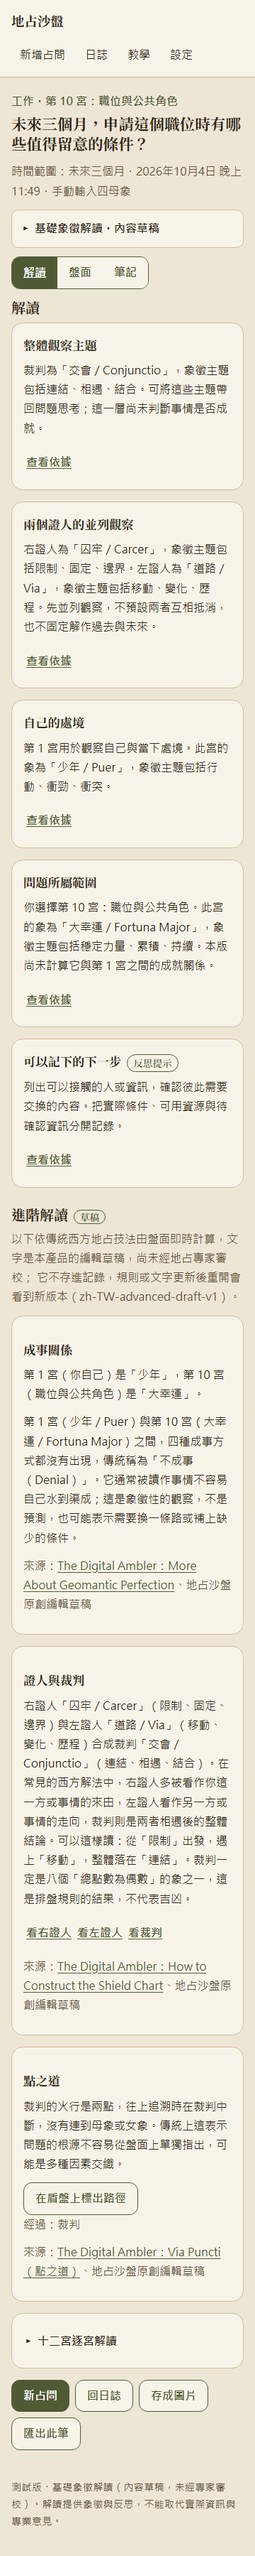
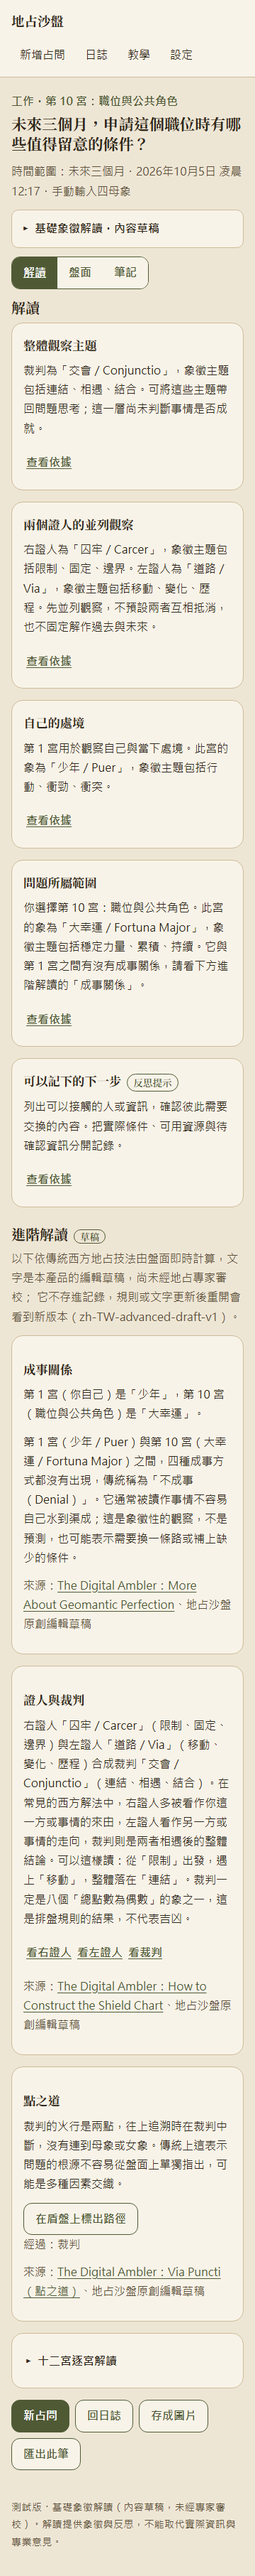
內容版本 v2：問題所屬範圍改為指向進階解讀的成事關係，舊記錄保留 v1 文字（D29）；版本 0.7.1

diff --git a/src/domain/readingV2.ts b/src/domain/readingV2.ts
@@ -1,0 +1,45 @@
+/**
+ * Content version zh-TW-basic-draft-v2, FROZEN once released (ACCEPTANCE R05; DECISIONS D29).
+ * Same tables and wording as v1, except the topic card: v1 said perfection was not yet computed,
+ * which became untrue in 0.4.0 when the advanced reading started computing it.
+ */
+import { constructChart, houseNode, toDots, RULE_VERSION, type Mothers, type NodeId } from './geomancy.ts';
+import type { Claim, Evidence, Question, Reading } from './reading.ts';
+import { FIGURES_V1, HOUSES_V1, PROMPTS_V1 } from './readingV1.ts';
+
+export const CONTENT_V2 = 'zh-TW-basic-draft-v2' as const;
+
+/** Expects a question that already passed assertQuestion. */
+export function buildReadingV2(mothers: Mothers, question: Question): Reading {
+  const chart = constructChart(mothers);
+  const info = (node: NodeId) => FIGURES_V1[toDots(chart[node])];
+  const evidence = (nodeId: NodeId, house?: number): Evidence => ({
+    nodeId, figureId: info(nodeId).id, dots: toDots(chart[nodeId]),
+    ...(house === undefined ? {} : { house }),
+  });
+  const theme = (node: NodeId, label: string) => {
+    const f = info(node);
+    return `${label}為「${f.zh}／${f.latin}」，象徵主題包括${f.keywords.join('、')}。`;
+  };
+  const claims: Claim[] = [
+    { claimId: 'overall', ruleId: 'basic.judge-theme.v1', kind: 'symbolic-theme', title: '整體觀察主題',
+      text: theme('J', '裁判') + '可將這些主題帶回問題思考；這一層尚未判斷事情是否成就。',
+      evidence: [evidence('J')], sourceIds: ['G01', 'G04', 'E01'] },
+    { claimId: 'witnesses', ruleId: 'basic.witness-pair.v1', kind: 'symbolic-theme', title: '兩個證人的並列觀察',
+      text: theme('RW', '右證人') + theme('LW', '左證人') + '先並列觀察，不預設兩者互相抵消，也不固定解作過去與未來。',
+      evidence: [evidence('RW'), evidence('LW')], sourceIds: ['G01', 'E01'] },
+    { claimId: 'querent', ruleId: 'basic.house-context.v1', kind: 'symbolic-theme', title: '自己的處境',
+      text: `第 1 宮用於觀察${HOUSES_V1[0]}。` + theme('M1', '此宮的象'),
+      evidence: [evidence('M1', 1)], sourceIds: ['G02', 'G04', 'E01'] },
+  ];
+  if (question.targetHouse !== null) {
+    const h = question.targetHouse, node = houseNode(h);
+    claims.push({ claimId: 'topic', ruleId: 'basic.house-context.v1', kind: 'symbolic-theme', title: '問題所屬範圍',
+      text: `你選擇第 ${h} 宮：${HOUSES_V1[h - 1]}。` + theme(node, '此宮的象') + '它與第 1 宮之間有沒有成事關係，請看下方進階解讀的「成事關係」。',
+      evidence: [evidence(node, h)], sourceIds: ['G02', 'G04', 'E01'] });
+  }
+  claims.push({ claimId: 'reflection', ruleId: 'editorial.reflection.v1', kind: 'reflection', title: '可以記下的下一步',
+    text: info('J').reflection + PROMPTS_V1[question.topic], evidence: [evidence('J')], sourceIds: ['E01'] });
+  return { ruleVersion: RULE_VERSION, contentVersion: CONTENT_V2, scope: 'basic-symbolic',
+    reviewStatus: 'editorial-draft', claims };
+}

diff --git a/tests/unit/contentVersions.test.ts b/tests/unit/contentVersions.test.ts
@@ -1,8 +1,10 @@
 import { describe, expect, test } from 'vitest';
 import { readFileSync } from 'node:fs';
-import { FIGURES, HOUSES } from '../../src/domain/catalog.ts';
+import { CONTENT_VERSION, FIGURES, HOUSES } from '../../src/domain/catalog.ts';
 import { buildReading, isKnownContentVersion } from '../../src/domain/reading.ts';
 import { buildReadingV1, CONTENT_V1 } from '../../src/domain/readingV1.ts';
+import { CONTENT_V2 } from '../../src/domain/readingV2.ts';
+import { MemoryRepository } from '../../src/infrastructure/repository.ts';
 import { sourceToMothers } from '../../src/domain/geomancy.ts';
 import { checkRecord } from '../../src/infrastructure/importExport.ts';
 import type { ReadingRecord } from '../../src/domain/contracts.ts';
@@ -42,8 +44,37 @@ describe('R05: content versions', () => {
     expect(checkRecord(r)).toMatchObject({ ok: false, code: 'INTEGRITY_MISMATCH' });
   });
 
+  test('v2 differs from v1 only in the topic card, which no longer says perfection is not computed', () => {
+    const r = stored();
+    const v1 = buildReading(sourceToMothers(r.source), r.question, CONTENT_V1);
+    const v2 = buildReading(sourceToMothers(r.source), r.question, CONTENT_V2);
+    expect(v2.contentVersion).toBe(CONTENT_V2);
+    const topic = (x: typeof v1) => x.claims.find(c => c.claimId === 'topic')!.text;
+    expect(topic(v1)).toContain('本版尚未計算');
+    expect(topic(v2)).not.toContain('本版尚未計算');
+    expect(topic(v2)).toContain('請看下方進階解讀的「成事關係」');
+    const others = (x: typeof v1) => x.claims.filter(c => c.claimId !== 'topic');
+    expect(others(v2)).toEqual(others(v1));
+  });
+
+  test('new records use v2; old v1 and new v2 records both validate and neither can pass as the other', async () => {
+    expect(CONTENT_VERSION).toBe(CONTENT_V2);
+    const repo = new MemoryRepository();
+    let draft = await repo.createDraft(stored().question, 'manual');
+    draft = await repo.prepareSource(draft.id, draft.revision, { kind: 'manual', mothers: sourceToMothers(stored().source) });
+    const fresh = await repo.finalizeDraft(draft.id);
+    expect(fresh.contentVersion).toBe(CONTENT_V2);
+    expect(checkRecord(fresh)).toMatchObject({ ok: true });
+    expect(checkRecord(stored())).toMatchObject({ ok: true });
+
+    const relabelled = (r: ReadingRecord, v: string) => ({ ...r, contentVersion: v, reading: { ...r.reading, contentVersion: v } });
+    expect(checkRecord(relabelled(fresh, CONTENT_V1))).toMatchObject({ ok: false, code: 'INTEGRITY_MISMATCH' });
+    expect(checkRecord(relabelled(stored(), CONTENT_V2))).toMatchObject({ ok: false, code: 'INTEGRITY_MISMATCH' });
+  });
+
   test('only registered versions are known', () => {
     expect(isKnownContentVersion(CONTENT_V1)).toBe(true);
+    expect(isKnownContentVersion(CONTENT_V2)).toBe(true);
     expect(isKnownContentVersion('zh-TW-expert-v9')).toBe(false);
     expect(isKnownContentVersion('__proto__')).toBe(false);
     expect(isKnownContentVersion('toString')).toBe(false);

diff --git a/src/domain/readingV1.ts b/src/domain/readingV1.ts
@@ -1,14 +1,15 @@
 /**
  * Content version zh-TW-basic-draft-v1, FROZEN (ACCEPTANCE R05).
  * Saved records and backups carry this exact text; validation rebuilds it and compares word for word.
- * Never edit this file. Changed wording goes into a new version (see docs/ENGINE-AND-DATA.md §10).
+ * Never edit its text. Changed wording goes into a new version (see docs/ENGINE-AND-DATA.md §10);
+ * later versions may import these tables when they keep the same wording.
  */
 import { constructChart, houseNode, toDots, RULE_VERSION, type Mothers, type NodeId } from './geomancy.ts';
 import type { Claim, Evidence, Question, Reading } from './reading.ts';
 
 export const CONTENT_V1 = 'zh-TW-basic-draft-v1' as const;
 
-const FIGURES_V1: Record<string, { id: string; zh: string; latin: string; keywords: readonly string[]; reflection: string }> = {
+export const FIGURES_V1: Record<string, { id: string; zh: string; latin: string; keywords: readonly string[]; reflection: string }> = {
   '1111': { id: 'via', zh: '道路', latin: 'Via', keywords: ['移動', '變化', '歷程'], reflection: '有哪些條件正在改變？先選一個可以調整的小步驟。' },
   '2222': { id: 'populus', zh: '群眾', latin: 'Populus', keywords: ['群體', '承接', '環境影響'], reflection: '分辨自己的想法與他人的期待，再決定要回應什麼。' },
   '2211': { id: 'fortuna-major', zh: '大幸運', latin: 'Fortuna Major', keywords: ['穩定力量', '累積', '持續'], reflection: '盤點已經累積的能力，選擇能持續投入的一項。' },
@@ -26,12 +27,12 @@ const FIGURES_V1: Record<string, { id: string; zh: string; latin: string; keywor
   '2111': { id: 'caput-draconis', zh: '龍首', latin: 'Caput Draconis', keywords: ['進入', '開始', '新階段'], reflection: '若準備開始，先確認最小可行的第一步與必要條件。' },
   '1112': { id: 'cauda-draconis', zh: '龍尾', latin: 'Cauda Draconis', keywords: ['離開', '結束', '清除'], reflection: '整理需要收尾的事項，留意結束過程中的責任。' },
 };
-const HOUSES_V1 = [
+export const HOUSES_V1 = [
   '自己與當下處境', '資源與財物', '近距離往來與訊息', '家庭與根基',
   '戀愛與創作', '日常工作與照料', '伴侶、合作與對手', '共享資源與失落',
   '遠行與學習', '職位與公共角色', '朋友與支持', '隱藏的限制',
 ] as const;
-const PROMPTS_V1: Record<Question['topic'], string> = {
+export const PROMPTS_V1: Record<Question['topic'], string> = {
   general: '寫下一個你能主動觀察或採取的小步驟。',
   work: '把實際條件、可用資源與待確認資訊分開記錄。',
   relationship: '分清自己的需求與對他人的猜測，考慮一個可以尊重彼此的溝通方式。',

diff --git a/tests/e2e/content.spec.ts b/tests/e2e/content.spec.ts
@@ -1,0 +1,30 @@
+// R05 (DECISIONS D27/D29): a record keeps the reading text of the content version it was saved with.
+import { expect, test } from '@playwright/test';
+import { fileURLToPath } from 'node:url';
+import { fillManual, startCast } from './helpers.ts';
+
+const V1_BACKUP = fileURLToPath(new URL('../../fixtures/teaching-backup.json', import.meta.url));
+
+test('R05：匯入的 v1 舊記錄照原樣顯示舊文字；新起的一盤用 v2 文字', async ({ page }) => {
+  await page.goto('./#/settings');
+  await page.getByLabel('選擇備份檔').setInputFiles(V1_BACKUP);
+  const preview = page.getByRole('region', { name: '匯入預覽' });
+  await expect(preview).toContainText('可匯入');
+  await preview.getByRole('button', { name: /確認匯入 1 筆/ }).click();
+  await expect(page.getByText('已匯入 1 筆記錄。')).toBeVisible();
+
+  await page.goto('./#/journal');
+  await page.locator('.journal-item').getByRole('link').click();
+  await expect(page.getByText('本版尚未計算它與第 1 宮之間的成就關係。')).toBeVisible();
+  await page.getByText('基礎象徵解讀・內容草稿').click();
+  await expect(page.getByText('內容版本 zh-TW-basic-draft-v1')).toBeVisible();
+
+  await startCast(page, { method: '手動輸入四母象' });
+  await fillManual(page);
+  await page.getByRole('button', { name: '排盤' }).click();
+  await expect(page).toHaveURL(/#\/result\//);
+  await expect(page.getByText('請看下方進階解讀的「成事關係」')).toBeVisible();
+  await expect(page.getByText('本版尚未計算')).toHaveCount(0);
+  await page.getByText('基礎象徵解讀・內容草稿').click();
+  await expect(page.getByText('內容版本 zh-TW-basic-draft-v2')).toBeVisible();
+});

diff --git a/src/domain/reading.ts b/src/domain/reading.ts
@@ -1,6 +1,7 @@
 import { RULE_VERSION, type Mothers, type NodeId } from './geomancy.ts';
 import { CONTENT_VERSION } from './catalog.ts';
 import { buildReadingV1, CONTENT_V1 } from './readingV1.ts';
+import { buildReadingV2, CONTENT_V2 } from './readingV2.ts';
 
 export type Question = {
   text: string; timeframe: string;
@@ -38,8 +39,9 @@ export type Reading = {
 /** Every content version this build can rebuild and verify. Add new ones; never remove or edit old ones (R05). */
 const BUILDERS: Record<ContentVersion, (mothers: Mothers, question: Question) => Reading> = {
   [CONTENT_V1]: buildReadingV1,
+  [CONTENT_V2]: buildReadingV2,
 };
-export type ContentVersion = typeof CONTENT_V1;
+export type ContentVersion = typeof CONTENT_V1 | typeof CONTENT_V2;
 export const isKnownContentVersion = (v: unknown): v is ContentVersion =>
   typeof v === 'string' && Object.prototype.hasOwnProperty.call(BUILDERS, v);
 

diff --git a/src/domain/catalog.ts b/src/domain/catalog.ts
@@ -1,7 +1,7 @@
 import { toDots, type Figure } from './geomancy.ts';
 
 /** Original Traditional Chinese editorial drafts; NOT expert-reviewed interpretations. */
-export const CONTENT_VERSION = 'zh-TW-basic-draft-v1' as const;
+export const CONTENT_VERSION = 'zh-TW-basic-draft-v2' as const;
 export const FIGURES = [
   { id: 'via', latin: 'Via', zh: '道路', dots: '1111', keywords: ['移動', '變化', '歷程'], reflection: '有哪些條件正在改變？先選一個可以調整的小步驟。' },
   { id: 'populus', latin: 'Populus', zh: '群眾', dots: '2222', keywords: ['群體', '承接', '環境影響'], reflection: '分辨自己的想法與他人的期待，再決定要回應什麼。' },

diff --git a/src/features/settings/SettingsPage.tsx b/src/features/settings/SettingsPage.tsx
@@ -13,7 +13,7 @@ import { THEMES, type ArchiveEntry, type MotionSetting, type ThemeSetting } from
 import { formatDate } from '../../content/labels.ts';
 import { Dialog } from '../../components/Dialog.tsx';
 
-const APP_VERSION = '0.7.0';
+const APP_VERSION = '0.7.1';
 const MOTION_LABEL: Record<MotionSetting, string> = { system: '跟隨系統設定', reduce: '減少動態效果', full: '完整動態效果' };
 const THEME_LABEL: Record<ThemeSetting, { name: string; help: string }> = {
   sand: { name: '安靜沙盤', help: '自然沙色、立體沙面與凹痕，柔和安靜。' },

diff --git a/STATUS.md b/STATUS.md
@@ -1,6 +1,6 @@
 # 目前實際狀態
 
-最後更新：2026-10-04 · App 版本 0.7.0（測試版）
+最後更新：2026-10-05 · App 版本 0.7.1（測試版）
 
 **M0–M5 已實作，可在電腦瀏覽器從提問走到回顧記錄。0.4.0 依產品負責人試用回饋加入：點沙判定放寬、自動點沙、三種外觀主題、進階解讀（成事關係、點之道、證人與裁判、十二宮逐宮，草稿）。自動測試全部通過，含 Chromium、Edge、Firefox、Playwright WebKit 與模擬縮放。真機（iPhone／Android）、macOS Safari、讀屏尚未由人實測；M6 使用者試用與專家審校尚未開始。**
 
@@ -38,6 +38,10 @@
   - 短按、滑出圓圈、第二指、切到背景都不算也不取數；保存失敗用同一個結果重試；重新整理保留已完成的次數；鍵盤可按住空白鍵或 Enter。
   - 來源 `kind: 'press'` 存四個位元組，不偽造點數；結果頁的母象依據寫明是第幾次長按與取到的值。舊版 App 匯入這類記錄會判為格式不正確。
 
+- [x] **0.7.1（2026-10-05）內容版本 v2**（D29）
+  - 新記錄的「問題所屬範圍」卡片不再說「本版尚未計算成就關係」，改為指向進階解讀的成事關係。其餘文字與 v1 相同。
+  - 第一次實際升版：v1 舊記錄（含匯入的舊備份）照原樣顯示舊文字並通過驗證；v1、v2 互相不能冒充。新增 `tests/e2e/content.spec.ts`。
+
 ## 測試網址
 
 **https://magicsmallbear.github.io/geomancy-sandboard/**（GitHub Pages，原始碼 [MAGICSMALLBEAR/geomancy-sandboard](https://github.com/MAGICSMALLBEAR/geomancy-sandboard)，見 DECISIONS D20）。
@@ -55,9 +59,9 @@
 | `npm run typecheck` | 通過，0 錯誤 |
 | `npm run lint` | 通過，0 錯誤 0 警告 |
 | `npm run test:core` | 10 通過／0 失敗；輸出在 [core-test-report.tap](docs/core-test-report.tap) |
-| `npm run test:unit` | 9 個檔案、87 項通過（2026-10-04；四次長按、內容版本凍結 R05、十六象反轉／倒轉／對轉、65,536 盤確認裁判恰為八個偶數點象；手勢判定、點沙 reducer、自動點沙來源、Repository 在 fake-indexeddb 與記憶體兩種實作、匯入匯出邊界、成事關係各種情況、65,536 盤點之道性質、試用計時、圖片內容） |
-| `npm run build` | 成功；入口 JS gzip 151.60 KiB（目標 ≤250），precache 14 項 |
-| `npm run test:e2e` | 46 通過、1 略過（2026-10-04，含新增 `tests/e2e/press.spec.ts` 3 項；四次長按另在 Firefox、WebKit 各跑 3 項皆通過；2026-10-03 含新增 `tests/e2e/learn.spec.ts` 3 項；縮放測試加入兩個新頁）（P05b 只在 WebKit 跑），Playwright Chromium 153.0.8010.12，對 production build（`vite preview`）執行 |
+| `npm run test:unit` | 9 個檔案、89 項通過（2026-10-05；內容版本 v2、四次長按、內容版本凍結 R05、十六象反轉／倒轉／對轉、65,536 盤確認裁判恰為八個偶數點象；手勢判定、點沙 reducer、自動點沙來源、Repository 在 fake-indexeddb 與記憶體兩種實作、匯入匯出邊界、成事關係各種情況、65,536 盤點之道性質、試用計時、圖片內容） |
+| `npm run build` | 成功；入口 JS gzip 151.71 KiB（目標 ≤250），precache 14 項 |
+| `npm run test:e2e` | 47 通過、1 略過（2026-10-05，含新增 `tests/e2e/content.spec.ts`；2026-10-04 新增 `tests/e2e/press.spec.ts` 3 項；四次長按另在 Firefox、WebKit 各跑 3 項皆通過；2026-10-03 含新增 `tests/e2e/learn.spec.ts` 3 項；縮放測試加入兩個新頁）（P05b 只在 WebKit 跑），Playwright Chromium 153.0.8010.12，對 production build（`vite preview`）執行 |
 | `PW_EDGE=1 npx playwright test --project=msedge` | 40 通過、1 略過，本機安裝的 Microsoft Edge 154.0.4258.48 |
 | `PW_ENGINES=1 npx playwright test` | 120 通過、3 略過：Chromium、Firefox 155.0、WebKit 26.6（Playwright 的 Windows 版，不等於 macOS／iOS Safari）。需先 `npx playwright install firefox webkit` |
 

diff --git a/docs/DECISIONS.md b/docs/DECISIONS.md
@@ -38,5 +38,6 @@
 | D26 | 2026-10-03：產品負責人選擇下一步做「學習／十六象圖鑑」 | 擴充教學區：十六象頁加結構資訊與相關象、新增「十二宮與盤位」與「推盤練習」兩頁；不改起卦規則、資料格式與解讀 | 試用目標要求初學者能說出「為何這一列變成一點或兩點」，逐步練習與對答案直接對應這個目標。練習頁的「換一組四母象」用固定的位元輪換，不呼叫 Web Crypto，避免和起卦取樣混淆；練習不寫入資料庫。星體／元素對應因各傳統差異大且未能核對來源，本輪不加入 | `figureRelations.ts`、`content/learn.ts`、`LearnPages.tsx`、`HousesPage.tsx`、`PracticePage.tsx`、`Derivation.tsx`（由 `ChartPanel.tsx` 抽出）；`tests/unit/figureRelations.test.ts`、`tests/e2e/learn.spec.ts`、`zoom.spec.ts` |
 | D27 | 2026-10-04：專家審校後要改解讀文字，但匯入與開啟記錄時會用目前程式重組文字逐字比對，升版會讓所有舊記錄變成只讀封存（R05 未實作） | 已發布的內容版本凍結成獨立模組（`readingV1.ts`，自帶文字，不讀 `catalog.ts`），`buildReading` 依記錄的 `contentVersion` 分派；驗證時舊記錄用自己的版本重組比對。`reviewStatus` 型別預留 `expert-reviewed` | 舊記錄必須保留當時的文字快照且仍能驗證竄改；只凍結一份文字的代價是重複一張 16 象表，換來改文字時不會誤傷舊資料。本次沒有改任何解讀文字，內容版本仍是 v1 | `readingV1.ts`、`reading.ts`、`contracts.ts`、`importExport.ts`、`ENGINE-AND-DATA.md` §10；`tests/unit/contentVersions.test.ts` |
 | D28 | 2026-10-04：產品負責人選擇 P1 先做「四次長按」 | 新增第五種起卦方式「四次長按（裝置亂數）」，來源 `kind: 'press'`、`algorithm: 'webcrypto-press-v1'`、四個 byte。每次按住至少 1000 ms 並在圓圈內放開，才在放開的 handler 取 1 個 byte，取到就存入草稿（`confirmPress`，和點沙逐列保存同一套 revision 防重）；保存失敗重試同一 byte，未保存時離開頁面會先提醒。鍵盤可按住空白鍵或 Enter，自動重複不計 | 依規劃書 §11：長按是數位取數，時長只控制動畫，不以時間、座標或按壓長度當亂數；不偽造點數。逐次保存讓重新整理後保留已完成的長按。舊版 App 匯入含 `press` 的記錄會判為格式不正確 | `geomancy.ts`、`random.ts`、`contracts.ts`、`records.ts`、`repository.ts`、`db.ts`、`importExport.ts`、`PressCasting.tsx`、`CastPage.tsx`、`Derivation.tsx`、`NewQuestionPage.tsx`、`HomePage.tsx`、`app.css`；`tests/unit/press.test.ts`、`tests/e2e/press.spec.ts`（C15） |
+| D29 | 2026-10-05：基礎解讀「問題所屬範圍」卡片寫著「本版尚未計算它與第 1 宮之間的成就關係」，但 0.4.0 起進階解讀已經計算成事關係 | 新增內容版本 `zh-TW-basic-draft-v2`，這一句改為「它與第 1 宮之間有沒有成事關係，請看下方進階解讀的『成事關係』」；其餘文字與 v1 相同。新記錄用 v2，舊記錄保留 v1 文字 | 產品負責人選擇先修正。這是事實錯誤，不是象義判斷，不需等專家；左右證人說法不一致等內容問題仍留給專家審校。仍是 `editorial-draft` | `readingV2.ts`、`readingV1.ts`（只把表格改成 export）、`reading.ts`、`catalog.ts`；`tests/unit/contentVersions.test.ts`、`tests/e2e/content.spec.ts` |
 
 新增格式：日期／問題／選擇／理由／受影響檔案／驗收。不要以「代理覺得比較好」無痕替換規則或刪除重要錯誤流程。

diff --git a/docs/ENGINE-AND-DATA.md b/docs/ENGINE-AND-DATA.md
@@ -8,7 +8,7 @@
 |---|---|---|
 | `schemaVersion` | `1` | 儲存與匯出格式；破壞相容性需遷移 |
 | `ruleVersion` | `western-sequential-v1` | 算法、順序入宮、解讀技法的集合 |
-| `contentVersion` | `zh-TW-basic-draft-v1` | 中文象義與規則文案版本；已發布的版本凍結，改文字要新增版本（§10） |
+| `contentVersion` | `zh-TW-basic-draft-v1`；0.7.1 起新記錄為 `zh-TW-basic-draft-v2` | 中文象義與規則文案版本；已發布的版本凍結，改文字要新增版本（§10） |
 | `scope` | `basic-symbolic` | 本版只含基礎象徵解讀 |
 | `reviewStatus` | `editorial-draft` | 不得自行改成已審核 |
 
@@ -236,6 +236,7 @@ deleteReading(id): Promise<void>
 基礎解讀存進每一筆記錄，匯入與開啟時會用同一版本重組文字逐字比對。所以**已發布的內容版本永遠不能改**，改文字一律新增版本（ACCEPTANCE R05）。
 
 - `src/domain/readingV1.ts` 是 `zh-TW-basic-draft-v1` 的凍結副本，自帶十六象、十二宮與範本文字，不讀 `catalog.ts`。不要編輯。
+- `src/domain/readingV2.ts` 是 `zh-TW-basic-draft-v2`（D29）：沿用 v1 的十六象、十二宮與提示表，只改「問題所屬範圍」卡片的最後一句。之後的版本若沿用相同文字，也可以引用這些凍結的表；文字不同就另外凍結一份。
 - `src/domain/catalog.ts` 是畫面目前使用的內容（學習區、進階解讀、圖示名稱），可以依審校結果修改。
 
 新增一版的步驟：

diff --git a/docs/ACCEPTANCE.md b/docs/ACCEPTANCE.md
@@ -47,7 +47,7 @@
 | R02 | 開啟每張解讀的依據 | 對應正確 node／figure／宮位與來源 |
 | R03 | 切換 R、盾盤／十二宮、減少動畫 | underlying source/chart/reading 完全不變 |
 | R04 | 不支援 ruleVersion／contentVersion | 只讀封存，不執行目前引擎 |
-| R05 | 更換內容版本再開舊記錄 | 保留舊 reading 快照，不默默更新 |
+| R05 | 更換內容版本再開舊記錄 | 保留舊 reading 快照，不默默更新（`tests/unit/contentVersions.test.ts`、`tests/e2e/content.spec.ts`） |
 
 單元層測純手勢判定、reducer、匯入邊界；瀏覽器層測合成 click、IndexedDB 交易、導航與 service worker。用假 DB 測錯誤分支後，仍須跑真實瀏覽器 IDB 流程。不要為 CSS class 名稱寫脆弱快照。
 
